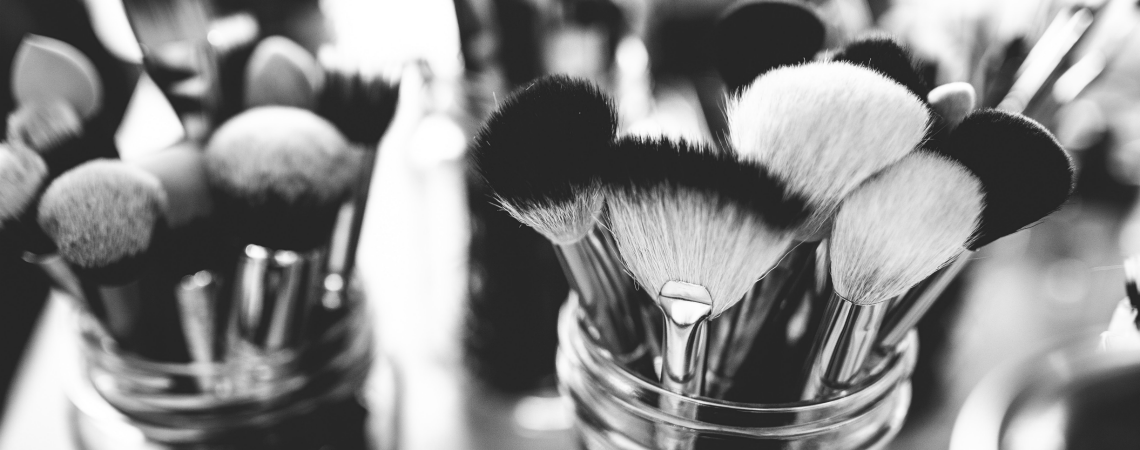
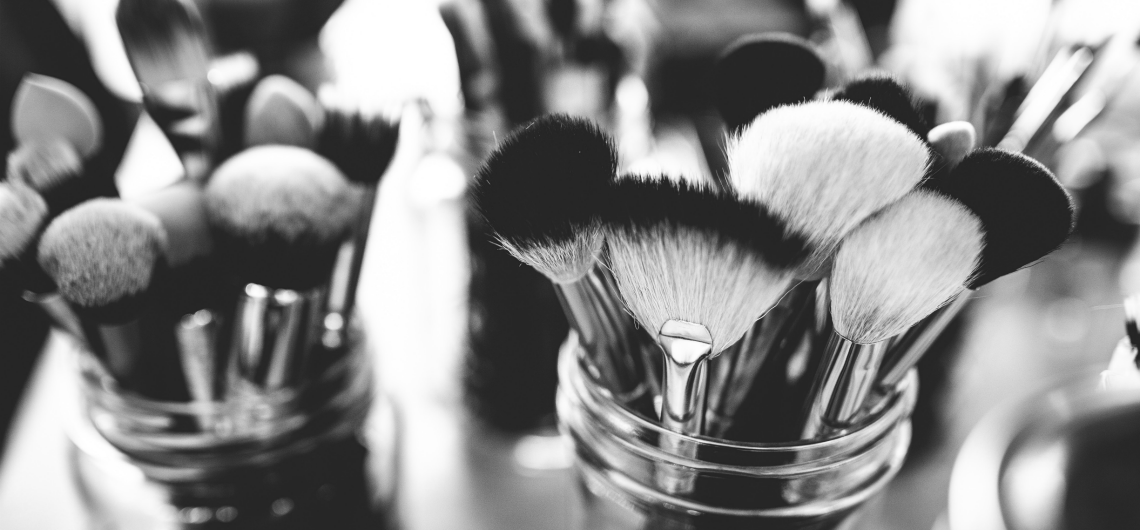
jumbotron positioning

diff --git a/src/components/Jumbotron/index.js b/src/components/Jumbotron/index.js
@@ -30,12 +30,13 @@ function Jumbotron() {
                     </div>
                     
                     {/* <p className="lead">This is a modified jumbotron that occupies the entire horizontal space of its parent.</p> */}
-                </div>
-                <div className="row kudri-button justify-content-center">
-                    <div className="col-2 align-items-end mt-4">
+                    <div className="row kudri-button justify-content-center">
+                    <div className="col-2 mt-4 mb-2">
                         <button type="button" className="btn btn-secondary btn-lg">View Portfolio</button>
                     </div>
                 </div>
+                </div>
+                
             </div>
             </div>
         </div>

diff --git a/src/components/Jumbotron/style.css b/src/components/Jumbotron/style.css
@@ -1,10 +1,10 @@
 .jumbotron {
     background-image: url("./salon3.png");
-    height: 450px;
+    height: 530px;
 }
 
 .jumbotron-kudri {
-    height: 450px;
+    height: 530px;
 }
 
 .jumbotron .container {
@@ -24,6 +24,11 @@
 .kudri-list .list-group-item:hover {
     background-color: rgba(72, 72, 72, 0.7);
     color: #FFC0CB;
+}
+
+.kudri-button .btn {
+    text-align: center;
+    font-size: 1em;
 }
 
 .kudri-button .btn:hover {
